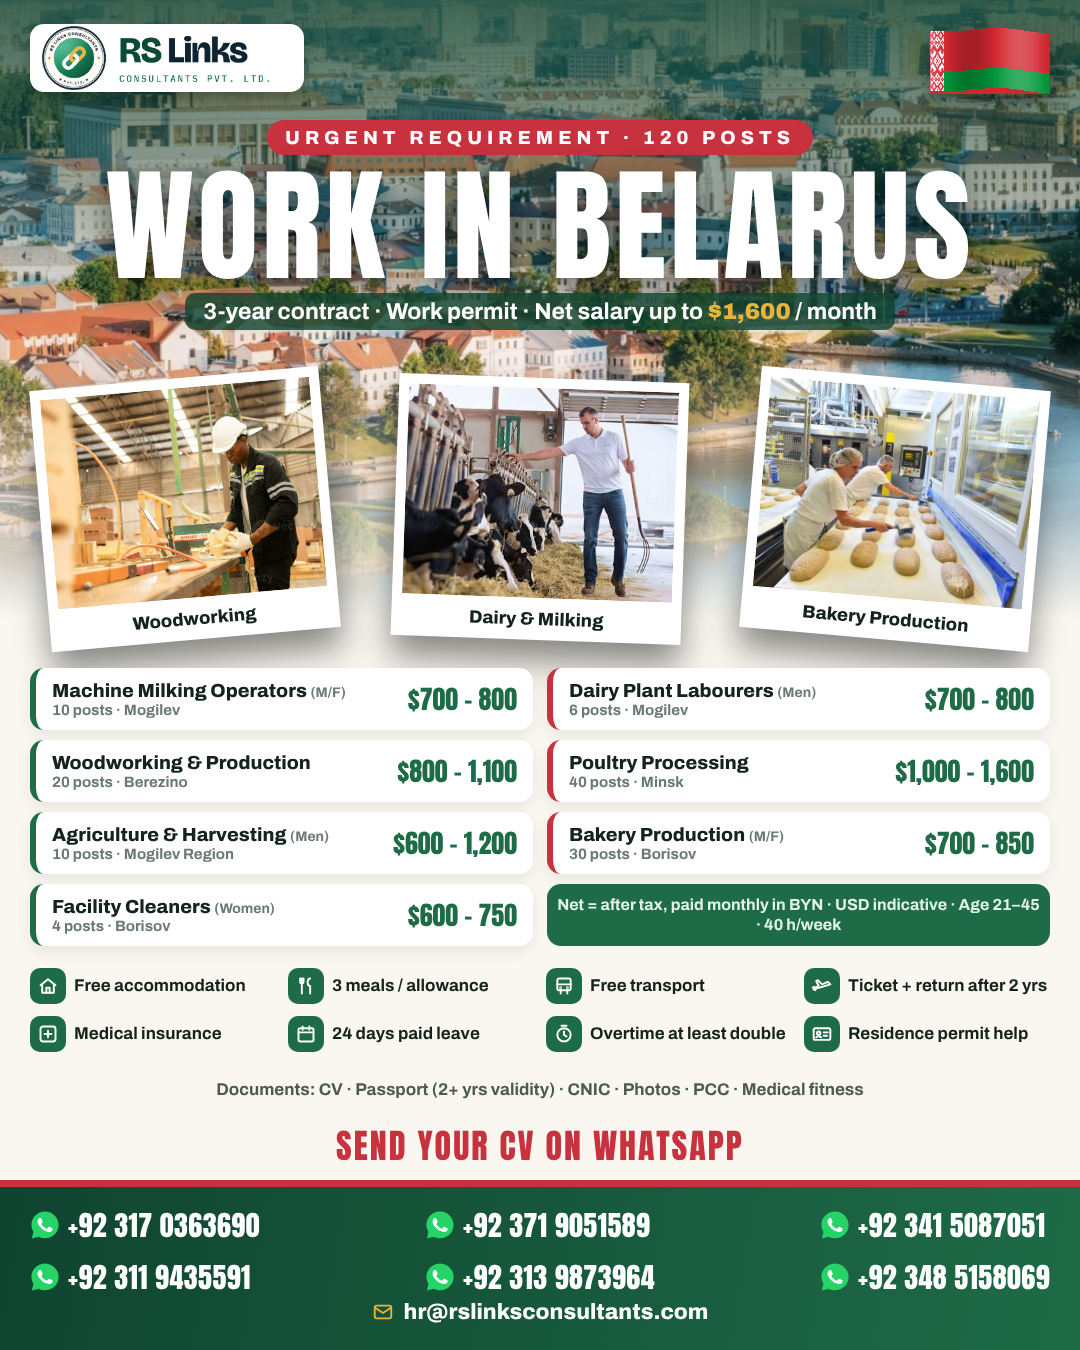
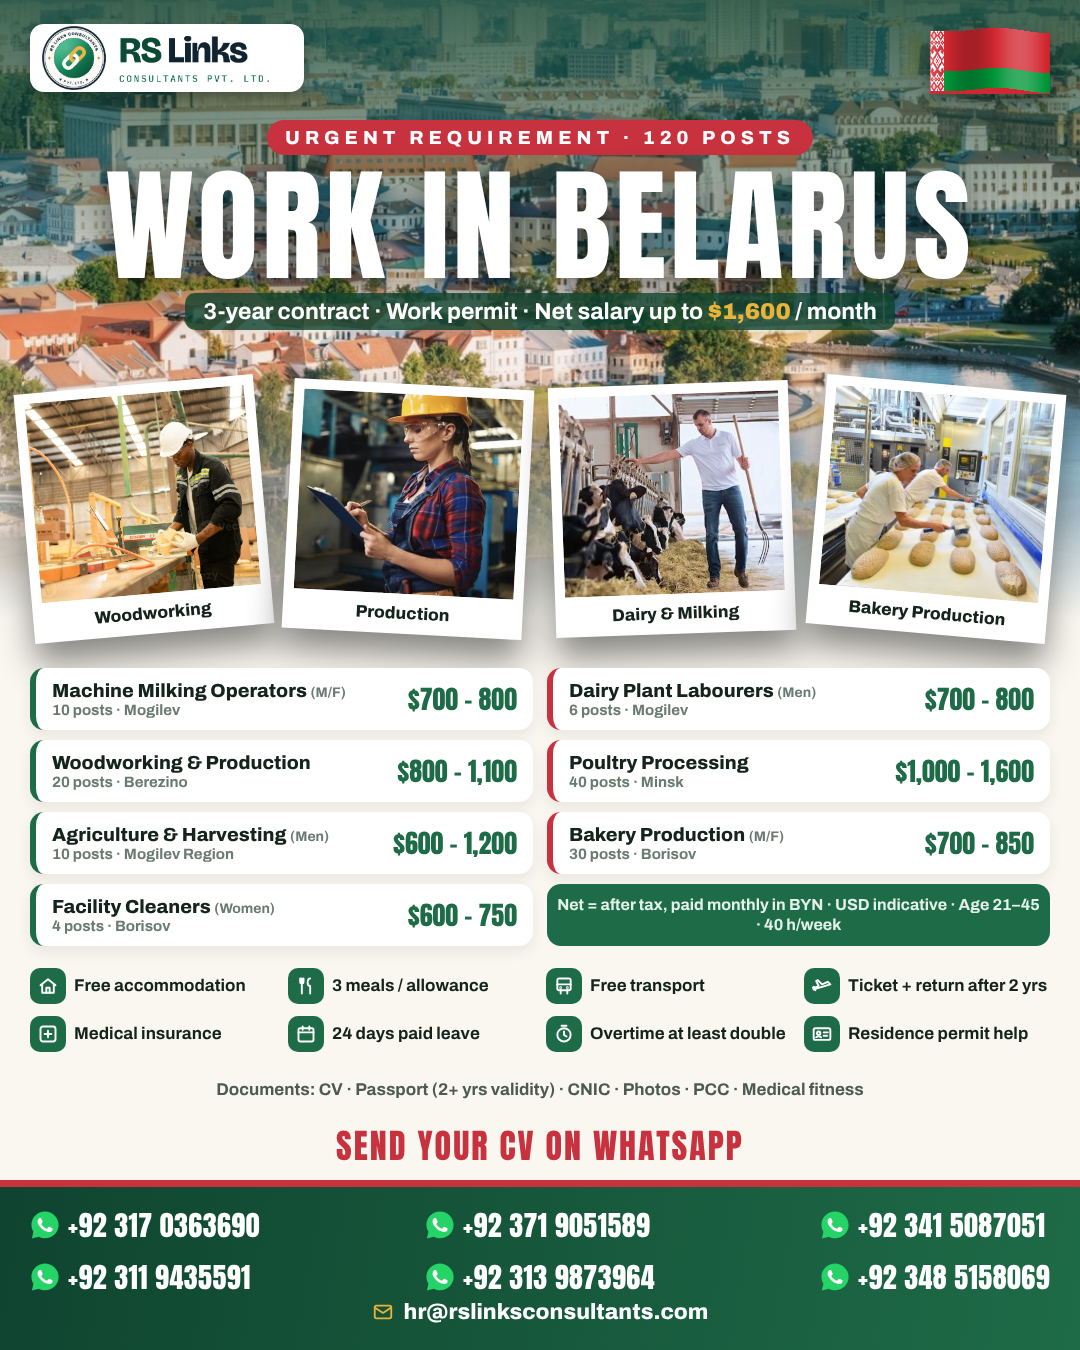
Belarus v6: add women (production, bakery) in four polaroids
Claude-Session: https://claude.ai/code/session_01YJ5ofgU8QCiWTsYR9pvXG4

Changed region(s): [[0.0, 0.2489, 1.0, 0.4978]]

diff --git a/src/belarus_120_v6.py b/src/belarus_120_v6.py
@@ -1,6 +1,6 @@
 """Belarus — 120 workers, 7 trades, v6, English (2026-11-16). User: very attractive, different design, with the
 country's landscape. Facts as v5 (no "visa"). Design: "Minsk riverside" — full-bleed Minsk old-town riverside photo,
-big white title in the sky with red/green flag ribbon, three tilted polaroid trade photos on the waterline, white
+big white title in the sky with red/green flag ribbon, four tilted polaroid trade photos (incl. women: production, bakery — user request) on the waterline, white
 sheet with 7 trade rows as two-column salary cards, benefit icons, forest-green footer with red rule."""
 from common import PHONES, PHOTOS, flag, font_css, icon, logo_img, render, whatsapp_icon
 
@@ -13,9 +13,9 @@ JOBS = [("Machine Milking Operators", "M/F", "10", "Mogilev", "700 – 800"), ("
 
 
 def polaroid(src, pos, cap, rot):
-    return (f"<div style='width:290px;background:#fff;padding:10px 10px 0;box-sizing:border-box;transform:rotate({rot}deg);box-shadow:0 20px 34px #0007'>"
-            f"<div style='height:210px;overflow:hidden'><img src='{src}' style='width:100%;height:100%;object-fit:cover;object-position:{pos}'></div>"
-            f"<div style='font:800 18px Archivo;color:{INK};text-align:center;line-height:42px'>{cap}</div></div>")
+    return (f"<div style='width:240px;background:#fff;padding:10px 10px 0;box-sizing:border-box;transform:rotate({rot}deg);box-shadow:0 20px 34px #0007'>"
+            f"<div style='height:200px;overflow:hidden'><img src='{src}' style='width:100%;height:100%;object-fit:cover;object-position:{pos}'></div>"
+            f"<div style='font:800 17px Archivo;color:{INK};text-align:center;line-height:40px'>{cap}</div></div>")
 
 
 def build():
@@ -39,8 +39,8 @@ def build():
  <div style='display:inline-block;background:{RED};color:#fff;font:800 19px Archivo;letter-spacing:5px;padding:7px 18px;border-radius:999px'>URGENT REQUIREMENT · 120 POSTS</div>
  <div style='font:400 124px Anton;color:#fff;line-height:.95;letter-spacing:4px;margin-top:12px;text-shadow:0 10px 30px #0008'>WORK IN BELARUS</div>
  <div style='display:inline-block;font:700 23px Archivo;color:#fff;margin-top:8px;background:#0F4430cc;padding:6px 18px;border-radius:10px'>3-year contract · Work permit · Net salary up to <b style='color:{GOLD}'>$1,600</b> / month</div></div>
-<div class='abs' style='top:378px;left:40px;right:40px;display:flex;justify-content:space-between'>
- {polaroid(P("by_woodworking.jpg"), '78% 35%', 'Woodworking', -5)}{polaroid(P("by_dairy.jpg"), '70% 30%', 'Dairy &amp; Milking', 2)}{polaroid(P("by_bakery.jpg"), 'center 45%', 'Bakery Production', 5)}</div>
+<div class='abs' style='top:384px;left:24px;right:24px;display:flex;justify-content:space-between'>
+ {polaroid(P("by_woodworking.jpg"), '78% 35%', 'Woodworking', -5)}{polaroid(P("by_woman_production.jpg"), 'center 25%', 'Production', 3)}{polaroid(P("by_dairy.jpg"), '72% 30%', 'Dairy &amp; Milking', -2)}{polaroid(P("by_bakery.jpg"), '30% 45%', 'Bakery Production', 5)}</div>
 
 <div class='abs' style='top:668px;left:30px;right:30px;display:grid;grid-template-columns:1fr 1fr;gap:10px 14px'>{cards}
  <div style='display:flex;align-items:center;justify-content:center;background:{GRN};border-radius:14px;height:62px;font:700 16px Archivo;color:#E3F1E9;text-align:center;line-height:1.25;padding:0 10px'>Net = after tax, paid monthly in BYN · USD indicative · Age 21–45 · 40 h/week</div></div>
